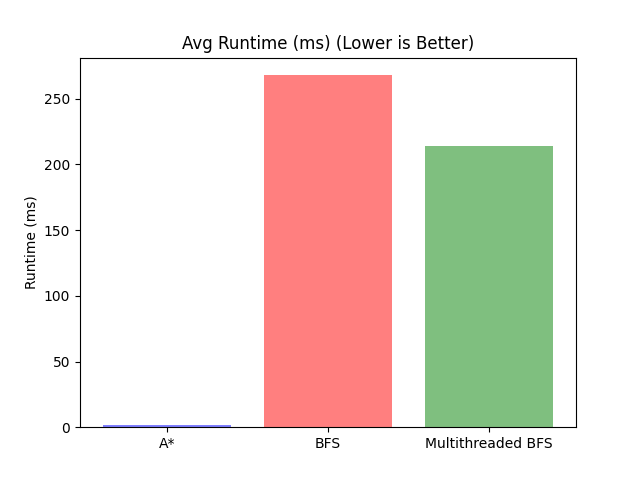
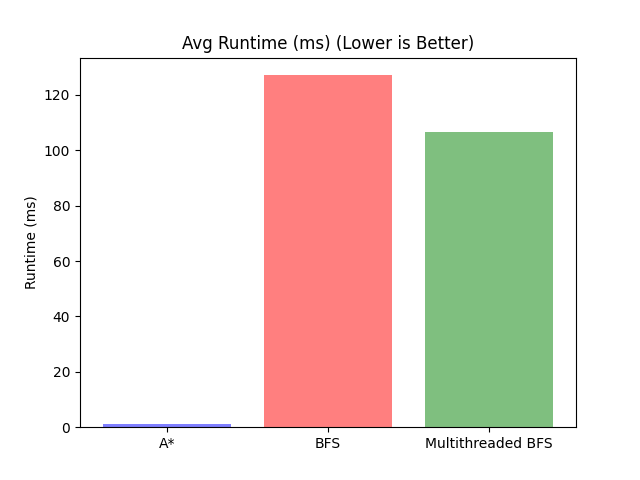
Updated Results

diff --git a/src/cs4306-course-project.py b/src/cs4306-course-project.py
@@ -8,7 +8,7 @@ cppyy.include('./include/eight_puzzle.hpp')
 cppyy.include('./include/search_alg.hpp')
 lib = cppyy.load_library('./lib/libcs4306-course-project.dll')
 
-num_times_to_run = 100000
+num_times_to_run = 10000
 
 a_star_num_moves_to_goal_avg = 0
 a_star_num_nodes_visited_results = []
@@ -22,6 +22,7 @@ multithreaded_bfs_num_moves_to_goal_avg = 0
 multithreaded_bfs_num_nodes_visited_results = []
 multithreaded_bfs_time_taken_ms_results = []
 
+# Run the algorithms and collect results
 print(f'Running algs {num_times_to_run} times')
 for i in range(0, num_times_to_run):
     print(f'Running {i + 1} of {num_times_to_run} times')
@@ -43,6 +44,7 @@ for i in range(0, num_times_to_run):
     multithreaded_bfs_num_nodes_visited_results.append(multithreaded_bfs_result.num_nodes_visited)
     multithreaded_bfs_time_taken_ms_results.append(multithreaded_bfs_result.time_taken_ms)
 
+# Plot Nodes Visited vs Runtime (ms).
 plt.title('Nodes Visited vs Runtime (ms)')
 plt.xlabel('Nodes Visited')
 plt.ylabel('Runtime (ms)')
@@ -69,6 +71,7 @@ plt.savefig('./out/figs/nodes-visited-vs-runtime.png')
 plt.show()
 
 
+# Plot Avg Number of Moves to Goal.
 plt.title('Avg Number of Moves to Goal (Lower is Better)')
 
 labels = ['A*', 'BFS', 'Multithreaded BFS']
@@ -88,6 +91,7 @@ plt.savefig('./out/figs/avg-moves-to-goal.png')
 plt.show()
 
 
+# Plot Avg Number of Nodes Visited.
 plt.title('Avg Number of Nodes Visited (Lower is Better)')
 
 num_nodes_visited_avgs = [
@@ -104,6 +108,7 @@ plt.savefig('./out/figs/avg-num-nodes-visited.png')
 plt.show()
 
 
+# Plot Avg Runtime (ms).
 plt.title('Avg Runtime (ms) (Lower is Better)')
 
 time_taken_avgs = [
